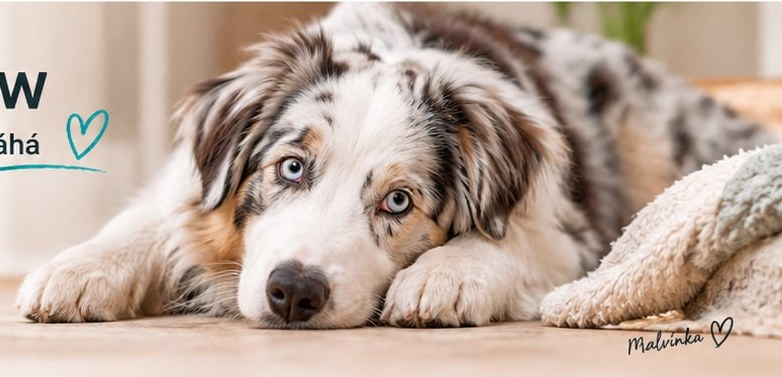
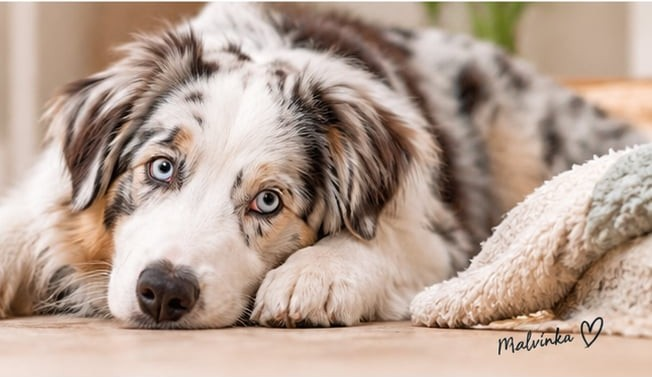
Hero: těsnější výřez, bleed k okraji, cache-busting
Claude-Session: https://claude.ai/code/session_011nwkJ55xwi4Qbthh5y2dPw

diff --git a/assets/css/style.css b/assets/css/style.css
@@ -89,14 +89,14 @@ p { margin: 0 0 1em; }
 
 /* Hero */
 .hero { background: var(--cream); position: relative; overflow: hidden; }
-.hero .wrap { display: grid; grid-template-columns: 1.05fr 1.2fr; align-items: center; min-height: 420px; }
-.hero .text { padding: 3rem 0; position: relative; z-index: 2; }
+.hero .wrap { display: grid; grid-template-columns: 0.9fr 1.3fr; align-items: stretch; min-height: 420px; }
+.hero .text { padding: 3rem 0; position: relative; z-index: 2; align-self: center; }
 .hero .sub { font-size: clamp(1.2rem, 2.2vw, 1.7rem); font-weight: 700; color: var(--navy); display: inline-block; position: relative; margin-bottom: 1rem; }
 .hero .sub .underline { position: absolute; left: 0; right: -10px; bottom: -6px; height: 10px; }
 .hero .sub .heart { position: absolute; right: -44px; top: -14px; width: 36px; }
 .hero .lead { font-size: 1.1rem; max-width: 34ch; margin-bottom: 1.6rem; }
-.hero .photo { position: relative; height: 100%; min-height: 380px; }
-.hero .photo img { position: absolute; inset: 0; width: 100%; height: 100%; object-fit: cover; object-position: 35% 50%; }
+.hero .photo { position: relative; height: 100%; min-height: 420px; margin-right: calc(-50vw + 50%); }
+.hero .photo img { position: absolute; inset: 0; width: 100%; height: 100%; object-fit: cover; object-position: 30% 50%; }
 .hero .photo::before { content: ""; position: absolute; left: 0; top: 0; bottom: 0; width: 120px; background: linear-gradient(90deg, var(--cream), rgba(244,239,231,0)); z-index: 1; }
 .hero .photo .ph {
   position: absolute; inset: 0; border-radius: 0 0 0 0;

diff --git a/index.html b/index.html
@@ -7,7 +7,7 @@
   <meta name="description" content="Merch SensiHome PAW. Podpořte projekt bezpečného domova pro psy se smyslovým hendikepem.">
   <link rel="preconnect" href="https://fonts.googleapis.com">
   <link href="https://fonts.googleapis.com/css2?family=Inter:wght@400;600;700;800&family=Caveat:wght@600;700&display=swap" rel="stylesheet">
-  <link rel="stylesheet" href="assets/css/style.css">
+  <link rel="stylesheet" href="assets/css/style.css?v=3">
 </head>
 <body>
   <div id="site-header"></div>
@@ -25,8 +25,7 @@
       </div>
       <div class="photo">
         <img src="assets/img/hero-malvinka.jpg" alt="Malvínka" fetchpriority="high">
-        <div class="sign hand">Malvínka ♡</div>
-      </div>
+              </div>
       <div class="paws left" data-paws></div>
     </div>
   </section>
@@ -48,7 +47,7 @@
   </section>
 
   <div id="site-footer"></div>
-  <script src="config.js"></script>
-  <script src="assets/js/app.js"></script>
+  <script src="config.js?v=3"></script>
+  <script src="assets/js/app.js?v=3"></script>
 </body>
 </html>

diff --git a/produkt.html b/produkt.html
@@ -7,7 +7,7 @@
   <meta name="description" content="Detail produktu SensiHome PAW">
   <link rel="preconnect" href="https://fonts.googleapis.com">
   <link href="https://fonts.googleapis.com/css2?family=Inter:wght@400;600;700;800&family=Caveat:wght@600;700&display=swap" rel="stylesheet">
-  <link rel="stylesheet" href="assets/css/style.css">
+  <link rel="stylesheet" href="assets/css/style.css?v=3">
 </head>
 <body>
   <div id="site-header"></div>
@@ -15,7 +15,7 @@
   <main class="product"><div class="wrap" id="product"></div></main>
 
   <div id="site-footer"></div>
-  <script src="config.js"></script>
-  <script src="assets/js/app.js"></script>
+  <script src="config.js?v=3"></script>
+  <script src="assets/js/app.js?v=3"></script>
 </body>
 </html>

diff --git a/pribeh-malvinky.html b/pribeh-malvinky.html
@@ -7,7 +7,7 @@
   <meta name="description" content="Příběh psí slečny Malvínky, tváře SensiHome PAW">
   <link rel="preconnect" href="https://fonts.googleapis.com">
   <link href="https://fonts.googleapis.com/css2?family=Inter:wght@400;600;700;800&family=Caveat:wght@600;700&display=swap" rel="stylesheet">
-  <link rel="stylesheet" href="assets/css/style.css">
+  <link rel="stylesheet" href="assets/css/style.css?v=3">
 </head>
 <body>
   <div id="site-header"></div>
@@ -30,7 +30,7 @@
   </div></main>
 
   <div id="site-footer"></div>
-  <script src="config.js"></script>
-  <script src="assets/js/app.js"></script>
+  <script src="config.js?v=3"></script>
+  <script src="assets/js/app.js?v=3"></script>
 </body>
 </html>

diff --git a/faq.html b/faq.html
@@ -7,7 +7,7 @@
   <meta name="description" content="Časté otázky k merchi SensiHome PAW">
   <link rel="preconnect" href="https://fonts.googleapis.com">
   <link href="https://fonts.googleapis.com/css2?family=Inter:wght@400;600;700;800&family=Caveat:wght@600;700&display=swap" rel="stylesheet">
-  <link rel="stylesheet" href="assets/css/style.css">
+  <link rel="stylesheet" href="assets/css/style.css?v=3">
 </head>
 <body>
   <div id="site-header"></div>
@@ -25,7 +25,7 @@
   </div></main>
 
   <div id="site-footer"></div>
-  <script src="config.js"></script>
-  <script src="assets/js/app.js"></script>
+  <script src="config.js?v=3"></script>
+  <script src="assets/js/app.js?v=3"></script>
 </body>
 </html>

diff --git a/o-nas.html b/o-nas.html
@@ -7,7 +7,7 @@
   <meta name="description" content="Kdo stojí za SensiHome PAW">
   <link rel="preconnect" href="https://fonts.googleapis.com">
   <link href="https://fonts.googleapis.com/css2?family=Inter:wght@400;600;700;800&family=Caveat:wght@600;700&display=swap" rel="stylesheet">
-  <link rel="stylesheet" href="assets/css/style.css">
+  <link rel="stylesheet" href="assets/css/style.css?v=3">
 </head>
 <body>
   <div id="site-header"></div>
@@ -38,7 +38,7 @@
   </div></main>
 
   <div id="site-footer"></div>
-  <script src="config.js"></script>
-  <script src="assets/js/app.js"></script>
+  <script src="config.js?v=3"></script>
+  <script src="assets/js/app.js?v=3"></script>
 </body>
 </html>

diff --git a/podporte-nas.html b/podporte-nas.html
@@ -7,7 +7,7 @@
   <meta name="description" content="Jak podpořit SensiHome PAW">
   <link rel="preconnect" href="https://fonts.googleapis.com">
   <link href="https://fonts.googleapis.com/css2?family=Inter:wght@400;600;700;800&family=Caveat:wght@600;700&display=swap" rel="stylesheet">
-  <link rel="stylesheet" href="assets/css/style.css">
+  <link rel="stylesheet" href="assets/css/style.css?v=3">
 </head>
 <body>
   <div id="site-header"></div>
@@ -40,7 +40,7 @@
   </div></main>
 
   <div id="site-footer"></div>
-  <script src="config.js"></script>
-  <script src="assets/js/app.js"></script>
+  <script src="config.js?v=3"></script>
+  <script src="assets/js/app.js?v=3"></script>
 </body>
 </html>

diff --git a/kontakt.html b/kontakt.html
@@ -7,7 +7,7 @@
   <meta name="description" content="Kontakt na SensiHome PAW">
   <link rel="preconnect" href="https://fonts.googleapis.com">
   <link href="https://fonts.googleapis.com/css2?family=Inter:wght@400;600;700;800&family=Caveat:wght@600;700&display=swap" rel="stylesheet">
-  <link rel="stylesheet" href="assets/css/style.css">
+  <link rel="stylesheet" href="assets/css/style.css?v=3">
 </head>
 <body>
   <div id="site-header"></div>
@@ -27,7 +27,7 @@
   </div></main>
 
   <div id="site-footer"></div>
-  <script src="config.js"></script>
-  <script src="assets/js/app.js"></script>
+  <script src="config.js?v=3"></script>
+  <script src="assets/js/app.js?v=3"></script>
 </body>
 </html>

diff --git a/kosik.html b/kosik.html
@@ -7,7 +7,7 @@
   <meta name="description" content="Košík SensiHome PAW">
   <link rel="preconnect" href="https://fonts.googleapis.com">
   <link href="https://fonts.googleapis.com/css2?family=Inter:wght@400;600;700;800&family=Caveat:wght@600;700&display=swap" rel="stylesheet">
-  <link rel="stylesheet" href="assets/css/style.css">
+  <link rel="stylesheet" href="assets/css/style.css?v=3">
 </head>
 <body>
   <div id="site-header"></div>
@@ -18,7 +18,7 @@
   </div></main>
 
   <div id="site-footer"></div>
-  <script src="config.js"></script>
-  <script src="assets/js/app.js"></script>
+  <script src="config.js?v=3"></script>
+  <script src="assets/js/app.js?v=3"></script>
 </body>
 </html>
